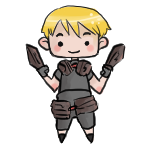
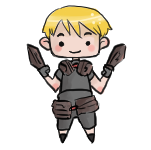
Images now have transparency;  image shows up now.

diff --git a/HeroHWTracker/Dashboard.aspx.designer.cs b/HeroHWTracker/Dashboard.aspx.designer.cs
@@ -29,5 +29,14 @@ namespace HeroHWTracker {
         /// To modify move field declaration from designer file to code-behind file.
         /// </remarks>
         protected global::System.Web.UI.WebControls.Label message;
+        
+        /// <summary>
+        /// hero2 control.
+        /// </summary>
+        /// <remarks>
+        /// Auto-generated field.
+        /// To modify move field declaration from designer file to code-behind file.
+        /// </remarks>
+        protected global::System.Web.UI.WebControls.Image hero2;
     }
 }
